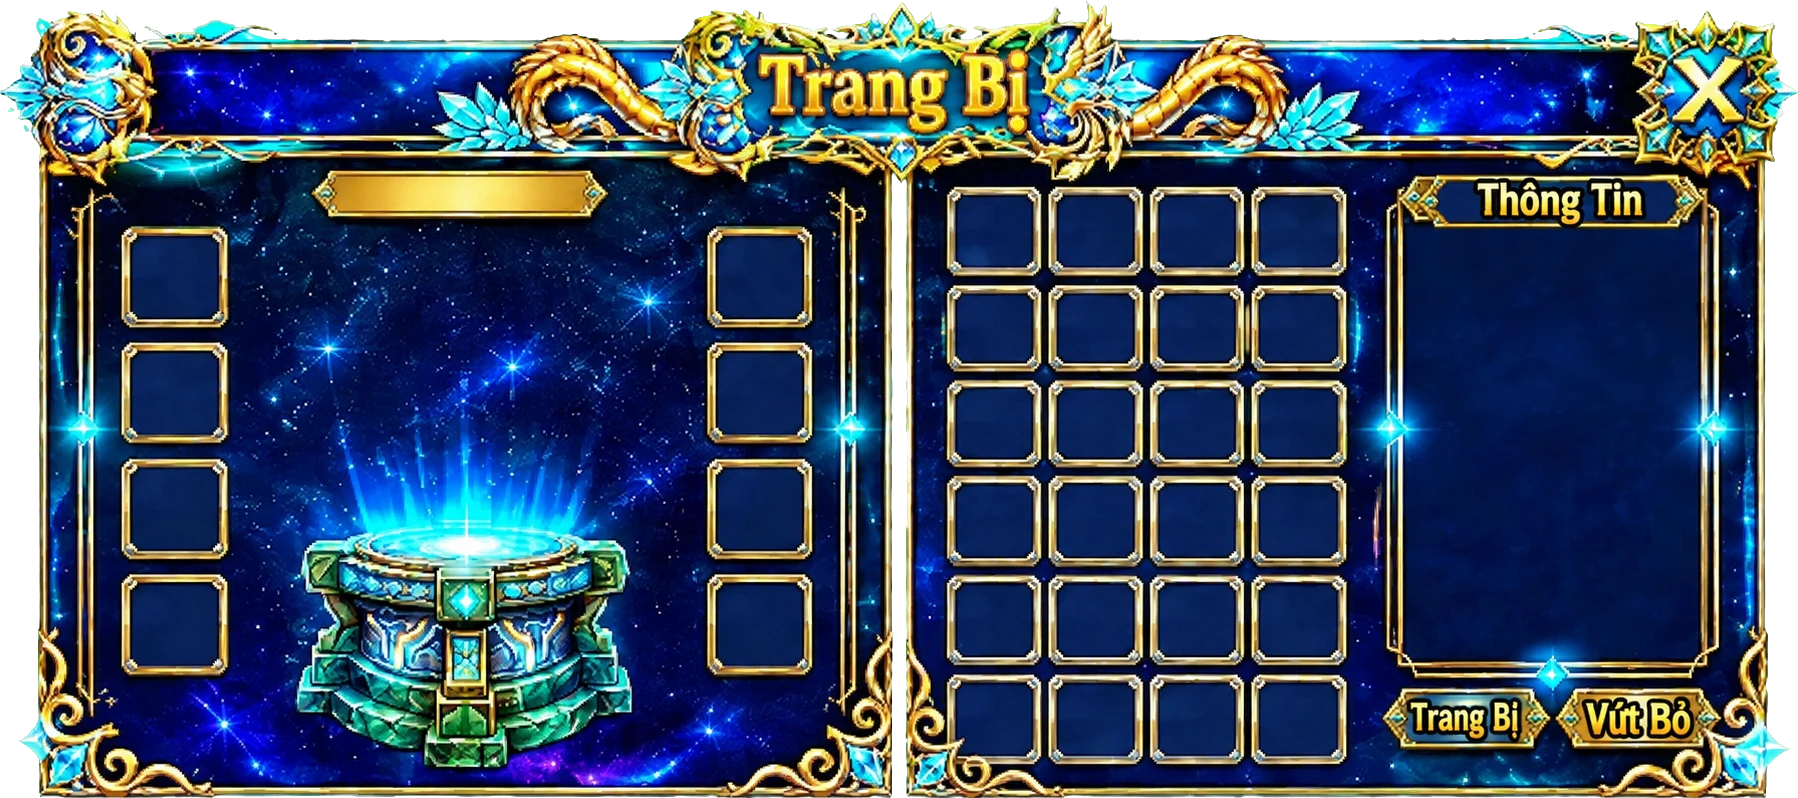
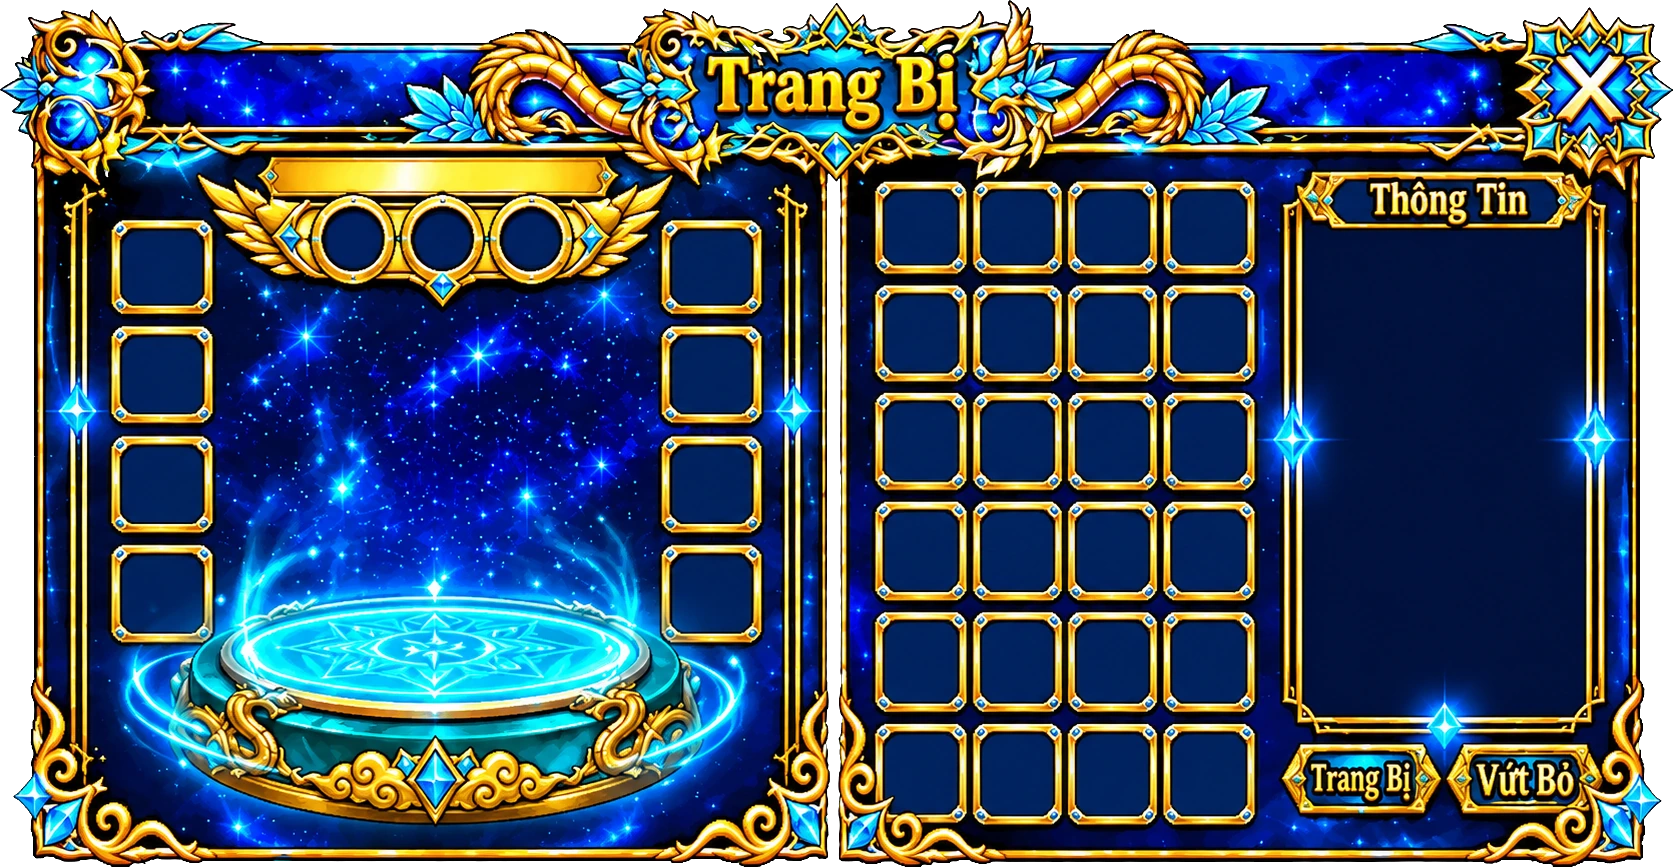
Khung Trang Bị mới: thanh vàng hiện Tên, 3 ô tròn Lv/Bậc/Rank, thêm vòng rune + aura theo Rank

diff --git a/game-moi/55-trang-bi.js b/game-moi/55-trang-bi.js
@@ -3,32 +3,35 @@
    MỌI TỌA ĐỘ tính theo PIXEL ẢNH ĐÃ CẮT 1798x798 (BW x BH). Cỡ chữ/độ dày trong CSS ({n}) vẫn tính theo thang cũ 1456 (UB) nên không phải chỉnh lại; --u = clientWidth/UB.
    TIẾN ĐỘ: KHUNG + đóng (nút X / bấm ra ngoài / Esc) + thú RA TRẬN đứng trên bục bên trái (có nhịp thở như ở sảnh).
    Không có thú ra trận (TTGTHU.getRaTran() = null) thì KHÔNG hiện thú, chỉ hiện chữ "Chưa có Thú ra trận".
+   (21/11/2026) Khung mới 1673x867: thanh vàng = tên, 3 ô tròn = Lv/Bậc/Rank, thú có vòng rune + aura theo Rank (67-rune-rank.js).
    CHƯA LÀM: 8 ô trang bị 2 bên, lưới 4x6 đồ, bảng thông tin bên phải, 2 nút dưới bảng.
    Mở nằm ĐÈ LÊN panel Thú Thần (đóng khung này thì quay lại Thú Thần); đóng panel Thú Thần/mở Balo thì khung này cũng đóng.
    API: TTGTB.open() / .close() / .isOpen() */
 (function(){
 'use strict';
-var BW=1798,BH=798,UB=1456,IMG='game-moi/khung-trang-bi.webp?v=2',OV_BO='game-moi/nut-bo-trang-bi.webp?v=1';   /* UB = thang đơn vị cũ cho cỡ chữ ({n}) */
-var isOpen=false,openAt=0,root=null,fr=null,E={};
+var BW=1673,BH=867,UB=1355,IMG='game-moi/khung-trang-bi.webp?v=3',OV_BO='game-moi/nut-bo-trang-bi.webp?v=1';   /* UB = thang đơn vị cũ cho cỡ chữ ({n}) */
+var isOpen=false,openAt=0,root=null,fr=null,E={},raf=0,cur=null,petImg=null,petSrc='';
 /* ===== THÚ TRÊN BỤC (chỗ chỉnh số, px ảnh khung 1798x798) =====
    cx = tâm ngang bục, by = đường chân thú (mặt bục), size = cạnh ảnh thú (ảnh gốc 192px, to quá sẽ mờ). */
-var PET={cx:464,by:548,size:305};
-var TXT={x:250,y:280,w:430,h:120};   /* khối chữ "Chưa có Thú ra trận" (giữa 2 cột ô trang bị, phía trên bục) */
-/* NHỊP THỞ: giống sảnh (index.html petSanh: nhấp nhô sin(ts/380)*2 px trên ảnh thú 128px => biên độ 2/128 cỡ thú, chu kỳ ~2,39s).
-   Ở đây dùng CSS: chạy lên-xuống qua lại (alternate) mỗi nửa chu kỳ 1,194s. Muốn thở mạnh/yếu: đổi BOB (px ảnh khung). */
-var BOB=(PET.size*UB/BW)*2/128;   /* tính theo đơn vị --u (thang UB) */
+var PET={cx:437,by:656,size:320};
+var TXT={x:235,y:300,w:400,h:100};
+/* THANH VÀNG TÊN + 3 Ô TRÒN (px ảnh khung 1673x867): tâm 3 ô tròn (353,240),(442,240),(531,240), ruột ~56px */
+var NM={x:292,y:160,w:300,h:36},OC_X=[353,442,531],OC_Y=240,OC_S=62;
+/* vẽ thú + vòng rune/aura theo Rank trên canvas: CW x (CHU+DOWN) px ảnh, chân thú ở y=CHU. Thú vẽ 128 điểm logic (như ở sảnh) rồi phóng s=PET.size/128 lần */
+var CV={w:460,up:420,down:70};   /* khối chữ "Chưa có Thú ra trận" (giữa 2 cột ô trang bị, phía trên bục) */
+/* NHỊP THỞ: giống sảnh, nhấp nhô sin(ts/380)*2 điểm logic (ảnh thú 128). */
 
 var css=[
 '.tb{--fh:"Noto Serif","Palatino Linotype",Georgia,"Times New Roman",serif;position:fixed;left:0;top:0;right:0;bottom:0;z-index:62;display:none;align-items:center;justify-content:center;background:rgba(3,4,18,.74);font-family:"Segoe UI",system-ui,-apple-system,Roboto,sans-serif;-webkit-tap-highlight-color:transparent}',
 '.tb.on{display:flex}',
-'.tb-fr{position:relative;width:min(98vw,calc(96vh*1798/798));aspect-ratio:1798/798;background:url('+IMG+') 0 0/100% 100% no-repeat;color:#e8ecff;--u:1px}',
+'.tb-fr{position:relative;width:min(98vw,calc(96vh*1673/867));aspect-ratio:1673/867;background:url('+IMG+') 0 0/100% 100% no-repeat;color:#e8ecff;--u:1px}',
 '.tb-fr>*{position:absolute;box-sizing:border-box}',
 '.tb button{font-family:inherit;touch-action:manipulation;-webkit-tap-highlight-color:transparent}',
 '.tb-ov{display:none;pointer-events:none}','.tb-ov.on{display:block}',
 '.tb-x{padding:0;border:0;border-radius:50%;background:transparent;cursor:pointer}',   /* vùng bấm trong suốt đè lên nút X vẽ sẵn trong ảnh */
-'.tb-pet{display:flex;align-items:flex-end;justify-content:center;pointer-events:none}',
-'.tb-pet img{width:100%;height:100%;object-fit:contain;-webkit-user-drag:none;user-select:none;filter:drop-shadow(0 {6} {10} rgba(0,0,0,.55));animation:tbBob 1.194s ease-in-out infinite alternate}',
-'@keyframes tbBob{from{transform:translateY(calc(var(--u)*-'+BOB+'))}to{transform:translateY(calc(var(--u)*'+BOB+'))}}',
+'.tb-cv{pointer-events:none}',
+'.tb-oc{pointer-events:none;image-rendering:auto}',
+'.tb-nm{display:flex;align-items:center;justify-content:center;padding:0 {10};font-family:var(--fh);font-weight:800;font-size:{20};line-height:1;white-space:nowrap;overflow:hidden;color:#3b2406;text-shadow:0 {1} 0 rgba(255,246,200,.7);pointer-events:none}',
 '.tb-emp{display:flex;align-items:center;justify-content:center;text-align:center;font-size:{28};line-height:1.4;color:#7c83b8;padding:0 {20}}',
 '.tb-t{display:flex;align-items:center;justify-content:center;font-family:var(--fh);font-weight:800;font-size:{26};line-height:1;white-space:nowrap;color:#3b2406;text-shadow:0 {1} 0 rgba(255,246,200,.7)}'
 ].join('\n').replace(/\{(\d+(?:\.\d+)?)\}/g,'calc(var(--u)*$1)');
@@ -38,18 +41,20 @@ function box(c,x,y,w,h){var s=c.style;s.left=(x/BW*100)+'%';s.top=(y/BH*100)+'%'
 function mk(tag,cls,x,y,w,h,txt){var c=document.createElement(tag);if(cls)c.className=cls;if(txt!=null)c.textContent=txt;if(w)box(c,x,y,w,h);fr.appendChild(c);return c;}
 /* KHÔNG PHÓNG TO QUÁ CỠ GỐC (như panel Thú Thần): muốn khung to hơn thì đổi MAXSCALE lên >1 */
 var MAXSCALE=1;
-function unit(){if(!fr)return;var d=window.devicePixelRatio||1;fr.style.maxWidth=(BW*MAXSCALE/d)+'px';fr.style.setProperty('--u',(fr.clientWidth/UB)+'px');}
+function unit(){if(!fr)return;var d=window.devicePixelRatio||1;fr.style.maxWidth=(BW*MAXSCALE/d)+'px';fr.style.setProperty('--u',(fr.clientWidth/UB)+'px');sizeCv();}
 
 function build(){
   root=document.createElement('div');root.className='tb';
   fr=document.createElement('div');fr.className='tb-fr';root.appendChild(fr);
-  /* thanh vàng trên-trái (x313-602,y172-217) để trống (chừa cho sau này, vd tên thú); tiêu đề TRANG BỊ đã vẽ sẵn trong khung */
-  E.pet=mk('div','tb-pet',PET.cx-PET.size/2,PET.by-PET.size,PET.size,PET.size);
+  /* thanh vàng = TÊN thú; 3 ô tròn = Lv / Bậc / Rank (cùng cách vẽ với panel Thú Thần); tiêu đề TRANG BỊ đã vẽ sẵn trong khung */
+  E.nm=mk('div','tb-nm',NM.x,NM.y,NM.w,NM.h);
+  E.oc=OC_X.map(function(cx){var c=mk('canvas','tb-oc',cx-OC_S/2,OC_Y-OC_S/2,OC_S,OC_S);c.width=c.height=208;return c;});
+  E.cv=mk('canvas','tb-cv',PET.cx-CV.w/2,PET.by-CV.up,CV.w,CV.up+CV.down);
   E.emp=mk('div','tb-emp',TXT.x,TXT.y,TXT.w,TXT.h,'Chưa có Thú ra trận');
   /* nút BỎ TRANG BỊ: ảnh phủ (x1376,y682 cỡ 182x74) đè lên nút TRANG BỊ vẽ sẵn khi đang chọn món ĐÃ mặc; bật/tắt bằng TTGTB.setBo(true/false) (chờ làm 8 ô trang bị để nối) */
-  E.ovB=mk('img','tb-ov',1376,682,182,74);E.ovB.src=OV_BO;E.ovB.alt='';E.ovB.draggable=false;
-  /* nút X vẽ sẵn trong ảnh (tâm ~ x1691,y86): vùng bấm trong suốt 130x130 */
-  var x=mk('button','tb-x',1626,22,130,130);x.type='button';x.setAttribute('aria-label','Đóng');x.addEventListener('click',close);
+  E.ovB=mk('img','tb-ov',1284,746,153,66);E.ovB.src=OV_BO;E.ovB.alt='';E.ovB.draggable=false;
+  /* nút X vẽ sẵn trong ảnh (tâm ~ x1587,y84): vùng bấm trong suốt 124x124 */
+  var x=mk('button','tb-x',1525,22,124,124);x.type='button';x.setAttribute('aria-label','Đóng');x.addEventListener('click',close);
   document.body.appendChild(root);
   /* bấm ra ngoài khung thì đóng (chặn 400ms đầu để cú chạm mở không đóng luôn) */
   root.addEventListener('click',function(e){if(e.target===root&&performance.now()-openAt>400)close();});
@@ -58,12 +63,32 @@ function build(){
   window.addEventListener('resize',unit);
 }
 /* hiện thú ra trận (lấy từ TTGTHU.getRaTran()); không có thì ẩn thú, hiện chữ */
+function fitName(){var fs=20;E.nm.style.fontSize='calc(var(--u)*'+fs+')';while(E.nm.scrollWidth>E.nm.clientWidth+1&&fs>10){fs--;E.nm.style.fontSize='calc(var(--u)*'+fs+')';}}
 function render(){
   var t=window.TTGTHU&&TTGTHU.getRaTran&&TTGTHU.getRaTran(),a=t&&TTGTHU.anh?TTGTHU.anh(t):'';
-  if(a){E.pet.innerHTML='<img src="'+a.replace(/"/g,'&quot;')+'" alt="">';E.pet.style.display='';E.emp.style.display='none';}
-  else{E.pet.innerHTML='';E.pet.style.display='none';E.emp.style.display='flex';}
+  cur=a?t:null;
+  if(a){if(petSrc!==a){petSrc=a;petImg=new Image();petImg.src=a;}E.cv.style.display='';E.emp.style.display='none';}
+  else{petSrc='';petImg=null;E.cv.style.display='none';E.emp.style.display='flex';}
+  E.nm.textContent=t&&TTGTHU.ten?TTGTHU.ten(t):'';if(t)fitName();
+  if(TTGTHU&&TTGTHU.badges)TTGTHU.badges(E.oc,t||null);
 }
-function open(){if(!root)build();render();isOpen=true;openAt=performance.now();root.classList.add('on');unit();}
+/* canvas thú + vòng rune + aura (giống sảnh/Thám Hiểm: lượt 'sau' = vòng+aura, vẽ thú, lượt 'truoc' = nửa vòng đè chân thú) */
+function sizeCv(){if(!E.cv)return;var r=E.cv.getBoundingClientRect(),d=window.devicePixelRatio||1,w=Math.max(1,Math.round(r.width*d)),h=Math.max(1,Math.round(r.height*d));if(E.cv.width!==w||E.cv.height!==h){E.cv.width=w;E.cv.height=h;}}
+function drawPet(ts){
+  var cv=E.cv;if(!cv||cv.style.display==='none')return;
+  var ctx=cv.getContext('2d'),S=PET.size/128,k=(cv.width/CV.w)*S,x=CV.w/2/S,gy=CV.up/S;
+  ctx.setTransform(1,0,0,1,0,0);ctx.clearRect(0,0,cv.width,cv.height);ctx.setTransform(k,0,0,k,0,0);
+  var rk=cur?(cur.bac||'C'):null;if(rk&&!(window.TTGBAO&&TTGBAO.RKC&&TTGBAO.RKC[rk]))rk='C';
+  var R=window.TTGRUNE;
+  if(R&&rk)R.ring(ctx,rk,x,gy,ts,'sau');
+  var im=petImg&&petImg.complete&&petImg.naturalWidth?petImg:null;
+  if(im){var sc=Math.min(128/im.naturalWidth,128/im.naturalHeight),w=im.naturalWidth*sc,h=im.naturalHeight*sc,bob=Math.sin(ts/380)*2;
+    ctx.fillStyle='rgba(0,0,0,.2)';ctx.beginPath();ctx.ellipse(x,gy,34,5,0,0,6.2832);ctx.fill();
+    ctx.imageSmoothingEnabled=true;ctx.imageSmoothingQuality='high';ctx.drawImage(im,x-w/2,gy-h+bob,w,h);}
+  if(R&&rk)R.ring(ctx,rk,x,gy,ts,'truoc');
+}
+function loop(ts){if(!isOpen){raf=0;return;}drawPet(ts);raf=requestAnimationFrame(loop);}
+function open(){if(!root)build();render();isOpen=true;openAt=performance.now();root.classList.add('on');unit();sizeCv();fitName();if(!raf)raf=requestAnimationFrame(loop);}
 function close(){if(!root)return;isOpen=false;root.classList.remove('on');}
 
 function setBo(on){if(E.ovB)E.ovB.classList.toggle('on',!!on);}   /* on=true: hiện nút BỎ TRANG BỊ đè lên TRANG BỊ */

diff --git a/game-moi/54-thu-than.js b/game-moi/54-thu-than.js
@@ -360,15 +360,16 @@ function ocDraw(cv,items,gap){
     g.strokeStyle=cf;g.lineWidth=it.lw2||3;g.strokeText(it.t,x,base);g.fillStyle=cf;g.fillText(it.t,x,base);   /* lõi: stroke cùng màu làm nét bút đậm hơn */
     y+=bx.a+bx.d+gap;}
 }
-function renderBadges(t){
-  if(!E.oc)return;
-  if(!t){E.oc.forEach(function(c){c.getContext('2d').clearRect(0,0,c.width,c.height);});return;}
+function renderBadges(t){if(E.oc)drawBadges(E.oc,t);}
+/* vẽ 3 ô Lv/Bậc/Rank vào 3 canvas 208x208 (cvs). Dùng chung cho khung Trang Bị (55-trang-bi.js) qua TTGTHU.badges */
+function drawBadges(cvs,t){
+  if(!t){cvs.forEach(function(c){c.getContext('2d').clearRect(0,0,c.width,c.height);});return;}
   var lv=Math.max(1,Math.floor(t.lv||1)),tien=Math.min(3,Math.max(1,Math.floor(t.tien||1))),bac=RKC[t.bac]?t.bac:'C',rc=RKC[bac];
   var lab=function(s){return {t:s,font:F_LB,sz:40,core:'#c9fbff',glow:'#00c8ff',lw:6,lw2:1};};
   var num=function(s){return {t:String(s),font:'400 {S}px '+F_BR,sz:82,maxW:88,core:'#fff7b0',glow:'#ffb800'};};
-  ocDraw(E.oc[0],[lab('Lv'),num(lv)],4);
-  ocDraw(E.oc[1],[lab('Bậc'),num(tien)],4);
-  ocDraw(E.oc[2],[{t:bac,font:'400 {S}px '+F_BR,sz:124,maxW:96,core:rc[1],glow:rc[0],lw:7,lw2:4,rb:bac==='SR'}],0);
+  ocDraw(cvs[0],[lab('Lv'),num(lv)],4);
+  ocDraw(cvs[1],[lab('Bậc'),num(tien)],4);
+  ocDraw(cvs[2],[{t:bac,font:'400 {S}px '+F_BR,sz:124,maxW:96,core:rc[1],glow:rc[0],lw:7,lw2:4,rb:bac==='SR'}],0);
 }
 if(document.fonts&&document.fonts.load){document.fonts.load('40px TTGRank','EDCBASSR0123456789').then(function(){if(root)render();}).catch(function(){});}   /* font nạp xong thì vẽ lại */
 function renderGo(){
@@ -554,5 +555,5 @@ function expInfo(){var t=rt&&byUid(rt);if(!t||!window.TTGCS)return null;var lv=M
 function addExp(n){var t=rt&&byUid(rt);n=Math.max(0,Math.floor(n)||0);if(!t||!window.TTGCS)return null;var lv0=Math.max(1,Math.floor(t.lv||1)),lv=lv0,e=Math.max(0,Math.floor(t.exp||0))+n;
   while(lv<capMax()&&e>=TTGCS.expCan(lv)){e-=TTGCS.expCan(lv);lv++;}
   if(lv>=capMax())e=0;t.lv=lv;t.exp=e;save();return {gain:n,lv0:lv0,lv1:lv,exp:e,need:lv>=capMax()?0:TTGCS.expCan(lv)};}
-window.TTGTHU={tha:tha,open:open,close:close,isOpen:function(){return isOpen;},add:add,list:list,getRaTran:getRaTran,khoiTao:khoiTao,anh:anhThu,expInfo:expInfo,addExp:addExp};   /* anh(thu) = đường dẫn ảnh thú (dùng cho khung Trang Bị) */
+window.TTGTHU={tha:tha,open:open,close:close,isOpen:function(){return isOpen;},add:add,list:list,getRaTran:getRaTran,khoiTao:khoiTao,anh:anhThu,expInfo:expInfo,addExp:addExp,ten:tenThu,badges:drawBadges};   /* anh(thu) = đường dẫn ảnh thú (dùng cho khung Trang Bị) */
 })();
